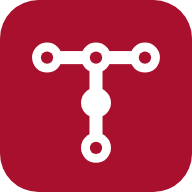
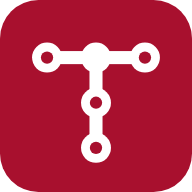
Bildmarke: die obere Abzweigung ausgefüllt statt des Punkts am Stamm
Claude-Session: https://claude.ai/code/session_01NmQeKCF7bHq44rvGBQiMKH

Changed region(s): [[0.4688, 0.25, 0.5312, 0.3438], [0.4688, 0.5, 0.5312, 0.5625]]

diff --git a/CLAUDE.md b/CLAUDE.md
@@ -179,8 +179,8 @@ Anthracite `#5a5a5a` statt Schwarz (Michael, 2026-09-25). Kacheln und Knöpfe si
 einzige Ausnahme von den kantigen Flächen.
 
 **Die Bildmarke von Taktland** ist ein weisses «T» aus einer Linie mit fünf Haltepunkten auf
-karminrotem (`#a8102e`), abgerundetem Quadrat; der mittlere Punkt am Stamm ist ausgefüllt, der
-Zug unterwegs (`app/public/logo.svg`, Entwürfe in `entwuerfe/logo/`, Michael, 2026-09-27). Das
+karminrotem (`#a8102e`), abgerundetem Quadrat; die obere Abzweigung ist ausgefüllt
+(`app/public/logo.svg`, Entwürfe in `entwuerfe/logo/`, Michael, 2026-09-27). Das
 Karminrot gilt nur für die Bildmarke, als Abstand zum Rot der SBB. Sie steht vor dem Namen im Kopf und ist das App-Symbol.
 
 **Kein Logo, keine Bildmarke der SBB.** Die Farb- und Formensprache ist übernommen,
